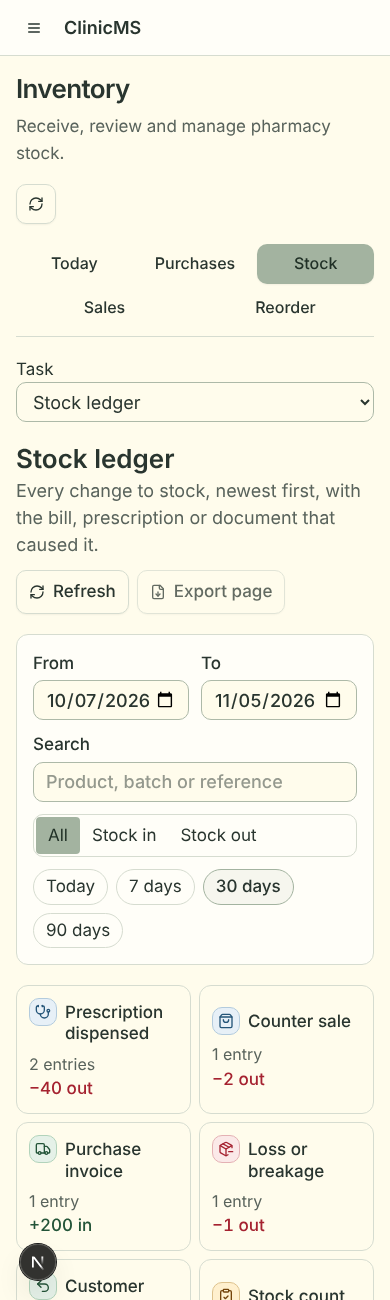
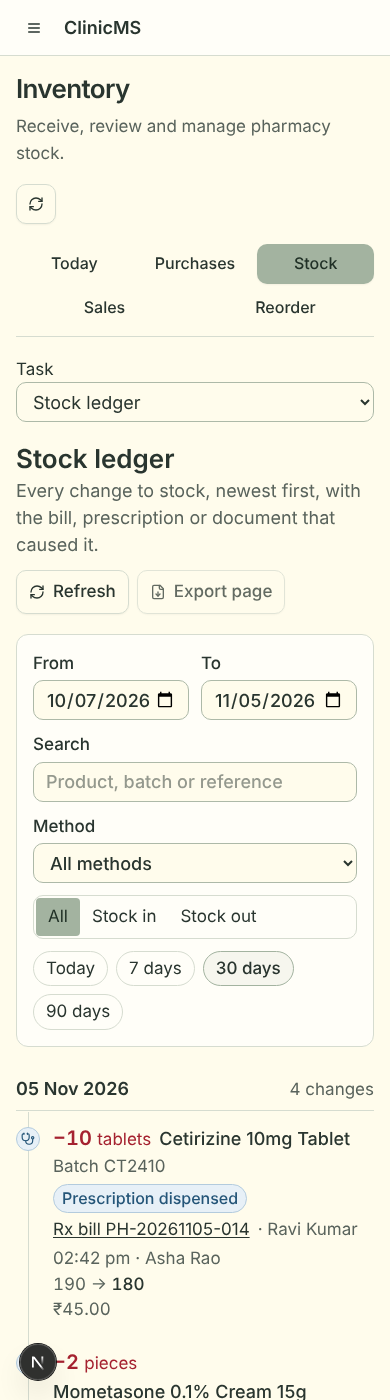
Replace ledger method cards with a Method filter
The per-method summary cards pushed the timeline below the fold and repeated
what each row's badge already shows. Remove them and the backend totals that
only fed them; filter by method from a dropdown in the filter bar instead.

Claude-Session: https://claude.ai/code/session_01BsUCJu69L6eKTAtWT6uFw1

diff --git a/frontend/src/components/inventory/InventoryLedger.tsx b/frontend/src/components/inventory/InventoryLedger.tsx
@@ -30,30 +30,29 @@ type Entry = {
   item: { id: string; name: string } | null; actor: { id: string; name: string } | null;
   source: { channel: Channel; label: string; document: LedgerDocument | null; counterparty: string | null };
 };
-type Total = { channel: Channel; label: string; entries: number; unitsIn: number; unitsOut: number; unknown: number };
 type Timeline = {
-  range: { from: string; to: string }; truncated: boolean; scanLimit: number; totals: Total[]; rows: Entry[];
+  range: { from: string; to: string }; truncated: boolean; scanLimit: number; rows: Entry[];
   pagination: { page: number; limit: number; total: number; pages: number };
 };
 
 type Tone = "receipt" | "dispense" | "loss" | "adjust" | "neutral";
-const CHANNEL: Record<Channel, { icon: LucideIcon; tone: Tone }> = {
-  PURCHASE_INVOICE: { icon: Truck, tone: "receipt" },
-  OPENING_STOCK: { icon: FileSpreadsheet, tone: "receipt" },
-  CUSTOMER_RETURN: { icon: Undo2, tone: "receipt" },
-  PRESCRIPTION: { icon: Stethoscope, tone: "dispense" },
-  PHARMACY_BILL: { icon: Receipt, tone: "dispense" },
-  COUNTER_SALE: { icon: ShoppingBag, tone: "dispense" },
-  PARTNER_SALE: { icon: Handshake, tone: "dispense" },
-  SUPPLIER_RETURN: { icon: RotateCcw, tone: "loss" },
-  LOSS: { icon: PackageMinus, tone: "loss" },
-  HOLD: { icon: ShieldAlert, tone: "loss" },
-  STOCK_COUNT: { icon: ClipboardCheck, tone: "adjust" },
-  CORRECTION: { icon: PencilLine, tone: "adjust" },
-  APPROVED_EDIT: { icon: PencilLine, tone: "adjust" },
-  TRANSFER: { icon: ArrowLeftRight, tone: "neutral" },
-  INVENTORY_DOCUMENT: { icon: FileText, tone: "neutral" },
-  MANUAL: { icon: Boxes, tone: "neutral" },
+const CHANNEL: Record<Channel, { label: string; icon: LucideIcon; tone: Tone }> = {
+  PURCHASE_INVOICE: { label: "Purchase invoice", icon: Truck, tone: "receipt" },
+  OPENING_STOCK: { label: "Opening stock", icon: FileSpreadsheet, tone: "receipt" },
+  CUSTOMER_RETURN: { label: "Customer return", icon: Undo2, tone: "receipt" },
+  PRESCRIPTION: { label: "Prescription dispensed", icon: Stethoscope, tone: "dispense" },
+  PHARMACY_BILL: { label: "Pharmacy bill", icon: Receipt, tone: "dispense" },
+  COUNTER_SALE: { label: "Counter sale", icon: ShoppingBag, tone: "dispense" },
+  PARTNER_SALE: { label: "Partner daily sale", icon: Handshake, tone: "dispense" },
+  SUPPLIER_RETURN: { label: "Supplier return", icon: RotateCcw, tone: "loss" },
+  LOSS: { label: "Loss or breakage", icon: PackageMinus, tone: "loss" },
+  HOLD: { label: "Blocked stock", icon: ShieldAlert, tone: "loss" },
+  STOCK_COUNT: { label: "Stock count", icon: ClipboardCheck, tone: "adjust" },
+  CORRECTION: { label: "Movement correction", icon: PencilLine, tone: "adjust" },
+  APPROVED_EDIT: { label: "Approved stock edit", icon: PencilLine, tone: "adjust" },
+  TRANSFER: { label: "Location transfer", icon: ArrowLeftRight, tone: "neutral" },
+  INVENTORY_DOCUMENT: { label: "Inventory document", icon: FileText, tone: "neutral" },
+  MANUAL: { label: "Manual entry", icon: Boxes, tone: "neutral" },
 };
 const TONE: Record<Tone, string> = {
   receipt: "border-success-border bg-success-soft text-success-text",
@@ -85,7 +84,7 @@ function documentLabel(doc: LedgerDocument): string {
 /**
  * @cc [owner:nareshshah139,label:product] inventory-ledger-view
  * The stock ledger MUST show every movement newest first, grouped by clinic day, with its signed
- * change, recorded balance, source method, counterparty and actor. Range, channel, direction,
+ * change, recorded balance, source method, counterparty and actor. Range, method, direction,
  * search and page MUST live in the workspace URL so item detail and browser back return to the
  * same view. Loading, failed and empty reads MUST stay distinct, and a truncated range MUST say so.
  */
@@ -98,7 +97,7 @@ export function InventoryLedger({ query, navigate, onDocument, onInvoice, onItem
 }) {
   const today = clinicToday();
   const to = query.ledgerTo || today, from = query.ledgerFrom || daysBefore(to, 29);
-  const channels = useMemo(() => new Set((query.ledgerChannel || "").split(",").filter(Boolean) as Channel[]), [query.ledgerChannel]);
+  const channel = (query.ledgerChannel in CHANNEL ? query.ledgerChannel : "") as Channel | "";
   const direction = (query.ledgerDirection || "") as Direction | "";
   const [search, setSearch] = useState(query.ledgerSearch || "");
   useEffect(() => setSearch(query.ledgerSearch || ""), [query.ledgerSearch]);
@@ -109,17 +108,12 @@ export function InventoryLedger({ query, navigate, onDocument, onInvoice, onItem
   }, [search, query.ledgerSearch, navigate]);
 
   const params = new URLSearchParams({ from, to, page: query.ledgerPage || "1", limit: "50" });
-  if (channels.size) params.set("channel", [...channels].join(","));
+  if (channel) params.set("channel", channel);
   if (direction) params.set("direction", direction);
   if (query.ledgerSearch) params.set("search", query.ledgerSearch);
   const timeline = useInventoryResource<Timeline>(`/inventory/workspace/timeline?${params}`);
   const data = timeline.data;
 
-  const toggleChannel = (channel: Channel) => {
-    const next = new Set(channels);
-    if (next.has(channel)) next.delete(channel); else next.add(channel);
-    navigate({ ledgerChannel: [...next].join(","), ledgerPage: "" });
-  };
   const days = useMemo(() => {
     const groups: { day: string; entries: Entry[] }[] = [];
     for (const entry of data?.rows || []) {
@@ -157,7 +151,7 @@ export function InventoryLedger({ query, navigate, onDocument, onInvoice, onItem
         </div>
       </header>
 
-      <div className="grid grid-cols-2 gap-3 rounded-lg border bg-card p-4 md:grid-cols-[auto_auto_1fr_auto] md:items-end">
+      <div className="grid grid-cols-2 gap-3 rounded-lg border bg-card p-4 md:grid-cols-[auto_auto_minmax(14rem,1fr)_minmax(10rem,13rem)_auto] md:items-end">
         <label className="grid gap-1 text-sm font-medium">From
           <input type="date" className={inputClass} value={from} max={to} onChange={e => e.target.value && navigate({ ledgerFrom: e.target.value, ledgerPage: "" })} />
         </label>
@@ -167,6 +161,12 @@ export function InventoryLedger({ query, navigate, onDocument, onInvoice, onItem
         <label className="col-span-2 grid gap-1 text-sm font-medium md:col-span-1">Search
           <input type="search" className={inputClass} placeholder="Product, batch or reference" value={search} onChange={e => setSearch(e.target.value)} />
         </label>
+        <label className="col-span-2 grid gap-1 text-sm font-medium md:col-span-1">Method
+          <select className={inputClass} value={channel} onChange={e => navigate({ ledgerChannel: e.target.value, ledgerPage: "" })}>
+            <option value="">All methods</option>
+            {(Object.keys(CHANNEL) as Channel[]).map(c => <option key={c} value={c}>{CHANNEL[c].label}</option>)}
+          </select>
+        </label>
         <div role="group" aria-label="Direction" className="col-span-2 flex rounded-md border p-0.5 md:col-span-1">
           {([["", "All"], ["IN", "Stock in"], ["OUT", "Stock out"]] as const).map(([value, label]) => (
             <button key={label} type="button" aria-pressed={direction === value}
@@ -174,7 +174,7 @@ export function InventoryLedger({ query, navigate, onDocument, onInvoice, onItem
               onClick={() => navigate({ ledgerDirection: value, ledgerPage: "" })}>{label}</button>
           ))}
         </div>
-        <div className="col-span-2 flex flex-wrap gap-2 md:col-span-4">
+        <div className="col-span-2 flex flex-wrap gap-2 md:col-span-5">
           {PRESETS.map(([label, n]) => {
             const active = to === today && from === daysBefore(today, n);
             return (
@@ -196,36 +196,9 @@ export function InventoryLedger({ query, navigate, onDocument, onInvoice, onItem
       )}
       {data && (
         <>
-          <div aria-label="Changes by method" className="grid grid-cols-2 gap-2 sm:grid-cols-[repeat(auto-fill,minmax(11rem,1fr))]">
-            {data.totals.map(t => {
-              const { icon: Icon, tone } = CHANNEL[t.channel];
-              const active = channels.has(t.channel);
-              return (
-                <button key={t.channel} type="button" aria-pressed={active} onClick={() => toggleChannel(t.channel)}
-                  className={`rounded-lg border p-3 text-left transition-shadow hover:shadow-sm ${active ? "ring-2 ring-primary" : ""} ${channels.size && !active ? "opacity-60" : ""}`}>
-                  <span className="flex items-start gap-2 text-sm font-medium leading-tight">
-                    <span className={`flex h-7 w-7 shrink-0 items-center justify-center rounded-md border ${TONE[tone]}`}><Icon className="h-4 w-4" aria-hidden /></span>
-                    <span className="pt-1">{t.label}</span>
-                  </span>
-                  <span className="mt-2 block text-xs text-muted-foreground">{t.entries} {t.entries === 1 ? "entry" : "entries"}</span>
-                  <span className="block text-sm font-medium tabular-nums">
-                    {t.unitsIn > 0 && <span className="text-success-text">+{t.unitsIn} in</span>}
-                    {t.unitsIn > 0 && t.unitsOut > 0 && " · "}
-                    {t.unitsOut > 0 && <span className="text-destructive-text">−{t.unitsOut} out</span>}
-                    {t.unknown > 0 && <span className="text-muted-foreground">{t.unitsIn || t.unitsOut ? " · " : ""}{t.unknown} unsigned</span>}
-                  </span>
-                </button>
-              );
-            })}
-          </div>
-          {channels.size > 0 && (
-            <p className="text-sm">Showing {[...channels].map(c => data.totals.find(t => t.channel === c)?.label || c).join(", ")}.{" "}
-              <button type="button" className="underline" onClick={() => navigate({ ledgerChannel: "", ledgerPage: "" })}>Show all methods</button>
-            </p>
-          )}
           {data.truncated && (
             <p role="status" className="rounded-md border border-warning-border bg-warning-soft p-3 text-sm text-warning-text">
-              This range holds more than {data.scanLimit.toLocaleString("en-IN")} movements. Only the newest are shown and counted. Narrow the dates or search for a product to see the rest.
+              This range holds more than {data.scanLimit.toLocaleString("en-IN")} movements. Only the newest are shown. Narrow the dates or search for a product to see the rest.
             </p>
           )}
 

diff --git a/frontend/__tests__/inventory/InventoryLedger.test.tsx b/frontend/__tests__/inventory/InventoryLedger.test.tsx
@@ -13,10 +13,6 @@ const row = (fields: Record<string, any>) => ({
 });
 const timeline = {
   range: { from: '2026-10-06', to: '2026-11-04' }, truncated: false, scanLimit: 10000,
-  totals: [
-    { channel: 'PURCHASE_INVOICE', label: 'Purchase invoice', entries: 1, unitsIn: 100, unitsOut: 0, unknown: 0 },
-    { channel: 'PRESCRIPTION', label: 'Prescription dispensed', entries: 1, unitsIn: 0, unitsOut: 10, unknown: 0 },
-  ],
   rows: [
     row({ id: 'rx' }),
     row({ id: 'purchase', at: '2026-11-03T05:00:00.000Z', type: 'PURCHASE', delta: 100, direction: 'IN', balance: { before: 0, after: 100 }, reference: 'PINV-778',
@@ -51,11 +47,12 @@ it('reads the range and filters from the URL and writes filter changes back to i
   (apiClient.get as jest.Mock).mockResolvedValue(timeline);
   const p = props();
   render(<InventoryLedger {...p} query={{ ...p.query, ledgerChannel: 'PRESCRIPTION', ledgerDirection: 'OUT', ledgerPage: '2' }} />);
-  await screen.findByText('Showing Prescription dispensed.', { exact: false });
+  await screen.findByLabelText('Removed 10 tablets');
+  expect(screen.getByLabelText('Method')).toHaveValue('PRESCRIPTION');
   const url = (apiClient.get as jest.Mock).mock.calls[0][0] as string;
   expect(new URLSearchParams(url.split('?')[1])).toEqual(new URLSearchParams({ from: '2026-10-06', to: '2026-11-04', page: '2', limit: '50', channel: 'PRESCRIPTION', direction: 'OUT' }));
-  fireEvent.click(screen.getByRole('button', { name: /Purchase invoice/ }));
-  expect(p.navigate).toHaveBeenCalledWith({ ledgerChannel: 'PRESCRIPTION,PURCHASE_INVOICE', ledgerPage: '' });
+  fireEvent.change(screen.getByLabelText('Method'), { target: { value: 'PURCHASE_INVOICE' } });
+  expect(p.navigate).toHaveBeenCalledWith({ ledgerChannel: 'PURCHASE_INVOICE', ledgerPage: '' });
   fireEvent.change(screen.getByRole('searchbox'), { target: { value: 'ceti' } });
   await waitFor(() => expect(p.navigate).toHaveBeenCalledWith({ ledgerSearch: 'ceti', ledgerPage: '' }));
 });
@@ -66,7 +63,7 @@ it('keeps a failed read distinct from an empty ledger and warns when truncated',
   expect(await screen.findByRole('alert')).toHaveTextContent('Ledger offline');
   expect(screen.queryByText('No stock changes match these filters')).not.toBeInTheDocument();
   unmount();
-  (apiClient.get as jest.Mock).mockResolvedValue({ ...timeline, truncated: true, rows: [], totals: [], pagination: { page: 1, limit: 50, total: 0, pages: 1 } });
+  (apiClient.get as jest.Mock).mockResolvedValue({ ...timeline, truncated: true, rows: [], pagination: { page: 1, limit: 50, total: 0, pages: 1 } });
   render(<InventoryLedger {...props()} />);
   expect(await screen.findByText('No stock changes match these filters')).toBeInTheDocument();
   expect(screen.getByRole('status')).toHaveTextContent('more than 10,000 movements');

diff --git a/backend/src/modules/inventory/inventory-timeline.ts b/backend/src/modules/inventory/inventory-timeline.ts
@@ -199,15 +199,12 @@ export type TimelineEntry = {
   item: { id: string; name: string } | null; actor: { id: string; name: string } | null; source: LedgerSource;
 };
 
-type ChannelTotal = { channel: LedgerChannel; label: string; entries: number; unitsIn: number; unitsOut: number; unknown: number };
-
 /**
  * @cc [owner:nareshshah139,label:product] inventory-timeline-ledger
  * The timeline MUST list movements newest first with each row's signed change, recorded balance
- * before and after, actor and source. Channel totals MUST cover every movement in the range that
- * matches the item and search filters, regardless of channel, direction or page; a movement of
- * unknown direction MUST be counted as unknown, never as an inflow or outflow. When the range holds
- * more movements than the scan limit, the response MUST say it is truncated.
+ * before and after, actor and source. A movement of unknown direction MUST be reported as UNKNOWN,
+ * never as an inflow or outflow. When the range holds more movements than the scan limit, the
+ * response MUST say it is truncated.
  */
 export async function readInventoryTimeline(prisma: any, branchId: string, q: TimelineQuery) {
   const where: Record<string, any> = { branchId, createdAt: { gte: q.from, lt: q.to } };
@@ -230,17 +227,10 @@ export async function readInventoryTimeline(prisma: any, branchId: string, q: Ti
   const truncated = scanned.length > SCAN_LIMIT;
   const movements: any[] = truncated ?scanned.slice(0, SCAN_LIMIT) : scanned;
   const ctx = await loadSourceContext(prisma, branchId, movements);
-  const totals = new Map<LedgerChannel, ChannelTotal>();
   const entries = movements.map((m: any): TimelineEntry => {
     const src = classifyMovement(m, ctx);
     const delta = movementDelta(m);
     const direction = movementDirection(delta);
-    const total = totals.get(src.channel) ?? { channel: src.channel, label: src.label, entries: 0, unitsIn: 0, unitsOut: 0, unknown: 0 };
-    total.entries++;
-    if (direction === 'IN') total.unitsIn += delta!;
-    else if (direction === 'OUT') total.unitsOut += -delta!;
-    else total.unknown++;
-    totals.set(src.channel, total);
     const info = jsonObject(m.notes);
     const before = Number.isFinite(info.beforeStock) ? info.beforeStock : null;
     const afterStock = Number.isFinite(info.afterStock) ? info.afterStock : null;
@@ -270,7 +260,6 @@ export async function readInventoryTimeline(prisma: any, branchId: string, q: Ti
     range: { from: q.fromDay, to: q.toDay },
     truncated,
     scanLimit: SCAN_LIMIT,
-    totals: [...totals.values()].sort((a, b) => b.entries - a.entries),
     rows: visible.slice((page - 1) * q.limit, page * q.limit),
     pagination: { page, limit: q.limit, total: visible.length, pages },
   };

diff --git a/backend/src/modules/inventory/tests/inventory-timeline.spec.ts b/backend/src/modules/inventory/tests/inventory-timeline.spec.ts
@@ -61,13 +61,10 @@ describe('inventory timeline ledger', () => {
     expect(rows.find(r => r.id === 'legacy')).toMatchObject({ delta: null, direction: 'UNKNOWN', balance: null });
   });
 
-  it('keeps channel totals over the whole range while filtering the rows', async () => {
-    const { rows, totals, pagination } = await read({ channel: 'PRESCRIPTION,PURCHASE_INVOICE' });
+  it('filters rows by method', async () => {
+    const { rows, pagination } = await read({ channel: 'PRESCRIPTION,PURCHASE_INVOICE' });
     expect(rows.map(r => r.id).sort()).toEqual(['purchase', 'rx']);
     expect(pagination.total).toBe(2);
-    expect(totals.reduce((n, t) => n + t.entries, 0)).toBe(movements.length);
-    expect(totals.find(t => t.channel === 'PHARMACY_BILL')).toMatchObject({ entries: 2, unitsOut: 6 });
-    expect(totals.find(t => t.channel === 'MANUAL')).toMatchObject({ unitsIn: 0, unitsOut: 0, unknown: 1 });
   });
 
   it('filters by direction and pages the result', async () => {
@@ -103,6 +100,6 @@ describe('inventory timeline ledger', () => {
     const many = Array.from({ length: 10001 }, (_, i) => movement(`m${i}`, 0, { quantityDelta: 1, reference: 'manual' }));
     const result = await read({}, prisma(many));
     expect(result.truncated).toBe(true);
-    expect(result.totals[0].entries).toBe(10000);
+    expect(result.pagination.total).toBe(10000);
   });
 });
